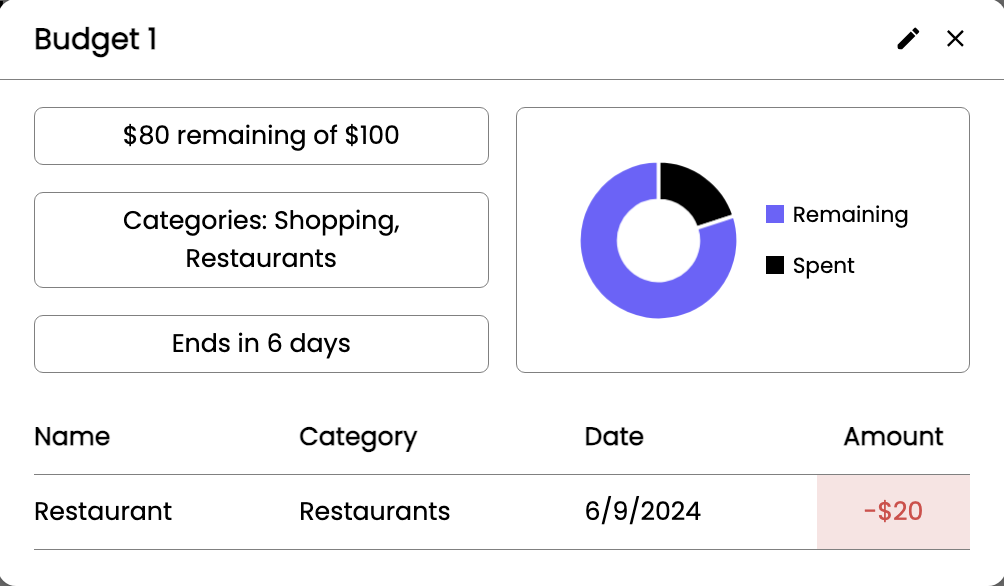
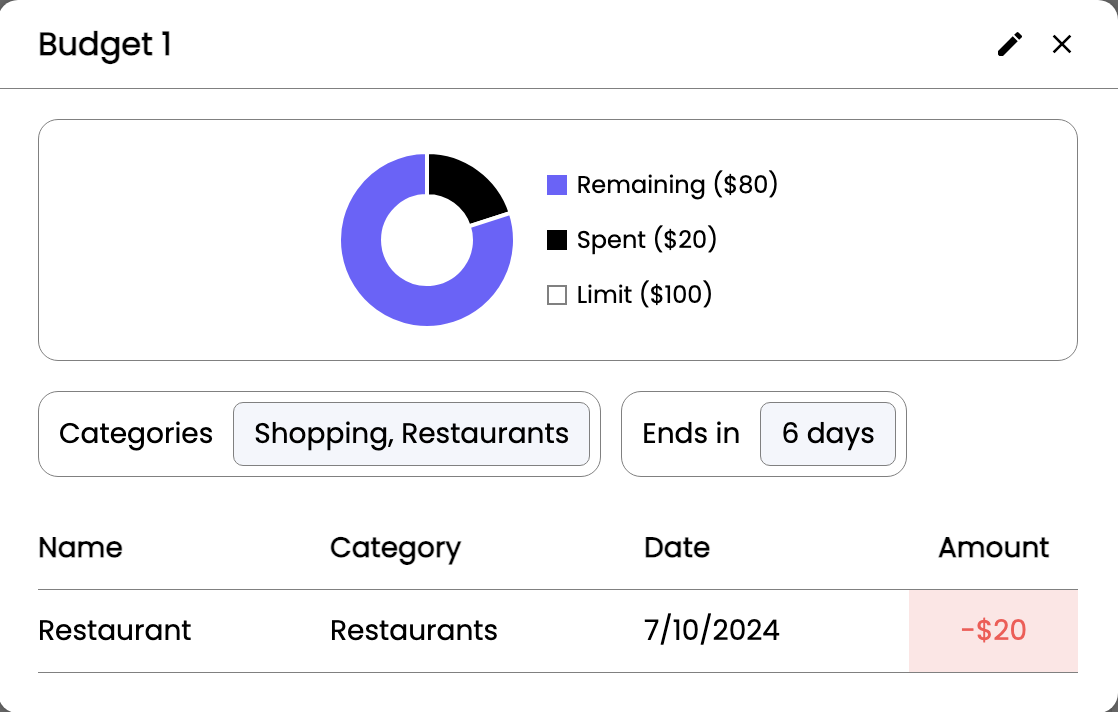
Make title input size responsive to size of text

diff --git a/finance-tracker/src/components/modal/Modal.js b/finance-tracker/src/components/modal/Modal.js
@@ -59,7 +59,7 @@ const Modal = ({isOpen, close, cancel, editMode, setEditMode, deleteMode, setDel
             <div className={modalCSS.modalContent}>
                 <div className={modalCSS.modalHeader}>
                     {(editMode && (type === 'accounts' || type === 'budgets')) ?
-                        <input type='text' placeholder="Title" value={title} onChange={(e) => changeTitle(e.target.value)}/> :
+                        <input type='text' placeholder="Title" value={title} style={{width: title.length + "ch", minWidth: "4ch"}} onChange={(e) => changeTitle(e.target.value)}/> :
                         <h3>{title}</h3>
                     }
                     <div className={modalCSS.modalHeaderButtons}>

diff --git a/finance-tracker/src/components/modal/modal.module.css b/finance-tracker/src/components/modal/modal.module.css
@@ -221,18 +221,13 @@
 }
 
 .budgetDonut {
-    text-align: center;
-    border: 0.5px solid gray;
-    border-radius: 5px;
-    padding: 5px 15px;
-}
-
-.budgetDonut {
     display: flex;
     gap: 15px;
     align-items: center;
     justify-content: center;
     padding: 15px;
+    border: 0.5px solid gray;
+    border-radius: 10px;
 }
 
 .budgetDonut > div:first-of-type {
